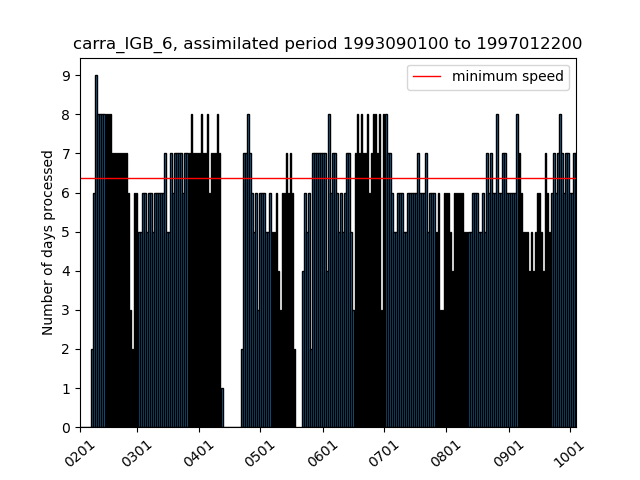
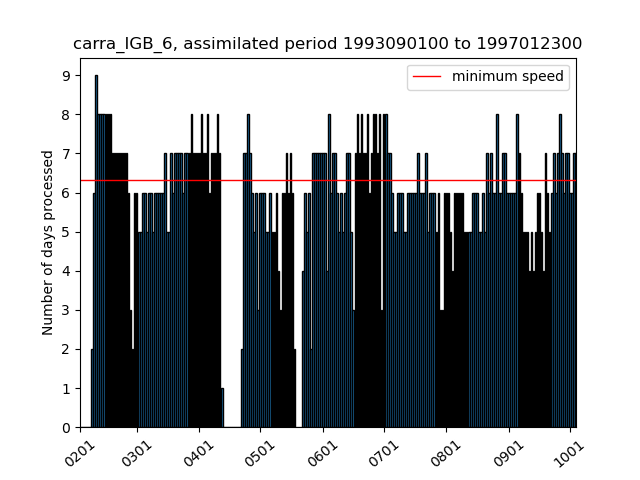
update repo

Changed region(s): [[0.125, 0.3438, 0.9062, 0.4062]]

diff --git a/current_state_sims.html b/current_state_sims.html
@@ -2,18 +2,18 @@
 <h1>Estimated completion dates and simulation speeds</h1>
 <p>Stream (production) completion date based on 30d (7d) moving avg speed</p>
 <p><a href="https://docs.google.com/document/d/1zDKAxuEXYnWWYzT3SZnZwY5WW8nodUMeYRjAGz46coc/edit#">Details of the calculation of the completion dates</a></p>
-<p>Last update: 2021/10/05 06:42:31 UTC</p>
+<p>Last update: 2021/10/05 12:42:01 UTC</p>
 <p>Total progress CARRA: 99.44% <a href="https://hirlam.org/portal/CARRA/Progress/GanntChart_CARRA.html"> (see detailed progress meter in Gantt chart) </a></p>
 <p>Total progress PANARCTIC: 91.67% </p>
 <p><a href="https://hirlam.org/portal/CARRA/Progress/waiting_times.html"> Queue waiting times for all streams</a></p>
 <p><a href="https://hirlam.org/portal/CARRA/Progress/mars_status.html"> MARS archive throughput </a></p>
 <html><table border="1"><tr><th>expId</th><th>Current assimilated date</th><th>End date of stream </th><th> Completion date</th><th> Avg. throughput (7d) </th> <th>Avg. throughput (30d) </th> <th> Remarks</tr>
-<tr bgcolor="#FFFF00"><td>carra_NE_3</td><td>2021063000</td><td>2021063021</td><td>2021100506</td><td>(0.0) days/day</td><td>(3.1) days/day</td><td>Inactive the past week</tr>
+<tr bgcolor="#FFFF00"><td>carra_NE_3</td><td>2021063000</td><td>2021063021</td><td>2021100512</td><td>(0.0) days/day</td><td>(3.1) days/day</td><td>Inactive the past week</tr>
 <tr bgcolor="#33FF38"><td>carra_NE_4</td><td>1992090100</td><td>1992083021</td><td>Finished on 20210824</td><td>(0.0) days/day</td><td>(0.0) days/day</td><td>Stream finished</tr>
 <tr bgcolor="#33FF38"><td>carra_NE_5</td><td>1994090100</td><td>1994083021</td><td>Finished on 20210824</td><td>(0.0) days/day</td><td>(0.0) days/day</td><td>Stream finished</tr>
-<tr bgcolor="#33FF38"><td>carra_NE_6</td><td>1997070100</td><td>1997063021</td><td>2021100420</td><td>(0.0) days/day</td><td>(2.33) days/day</td><td>Stream finished</tr>
-<tr bgcolor="#FFFF00"><td>carra_IGB_3</td><td>2021063000</td><td>2021063021</td><td>2021100506</td><td>(0.0) days/day</td><td>(3.03) days/day</td><td>Inactive the past week</tr>
-<tr bgcolor="#33FF38"><td>carra_IGB_4</td><td>1992090100</td><td>1992083021</td><td>2021100112</td><td>(0.0) days/day</td><td>(0.53) days/day</td><td>Stream finished</tr>
-<tr bgcolor="#33FF38"><td>carra_IGB_5</td><td>1994090100</td><td>1994083021</td><td>2021100418</td><td>(0.0) days/day</td><td>(4.0) days/day</td><td>Stream finished</tr>
-<tr bgcolor="#FFFFFF"><td>carra_IGB_6</td><td>1997012200</td><td>1997063021</td><td>2021103118</td><td>(6.57) days/day</td><td>(6.0) days/day</td><td></tr>
-<tr bgcolor="#FFFFFF"><td>carra_pan</td><td>2018082312</td><td>2018090100</td><td>2021100721</td><td>(3.71) days/day</td><td>(3.43) days/day</td><td></tr>
+<tr bgcolor="#33FF38"><td>carra_NE_6</td><td>1997070100</td><td>1997063021</td><td>2021100502</td><td>(0.0) days/day</td><td>(2.33) days/day</td><td>Stream finished</tr>
+<tr bgcolor="#FFFF00"><td>carra_IGB_3</td><td>2021063000</td><td>2021063021</td><td>2021100512</td><td>(0.0) days/day</td><td>(3.03) days/day</td><td>Inactive the past week</tr>
+<tr bgcolor="#33FF38"><td>carra_IGB_4</td><td>1992090100</td><td>1992083021</td><td>2021100118</td><td>(0.0) days/day</td><td>(0.53) days/day</td><td>Stream finished</tr>
+<tr bgcolor="#33FF38"><td>carra_IGB_5</td><td>1994090100</td><td>1994083021</td><td>2021100500</td><td>(0.0) days/day</td><td>(4.0) days/day</td><td>Stream finished</tr>
+<tr bgcolor="#FFFFFF"><td>carra_IGB_6</td><td>1997012300</td><td>1997063021</td><td>2021103120</td><td>(6.57) days/day</td><td>(6.0) days/day</td><td></tr>
+<tr bgcolor="#FFFFFF"><td>carra_pan</td><td>2018082409</td><td>2018090100</td><td>2021100720</td><td>(3.71) days/day</td><td>(3.43) days/day</td><td></tr>
